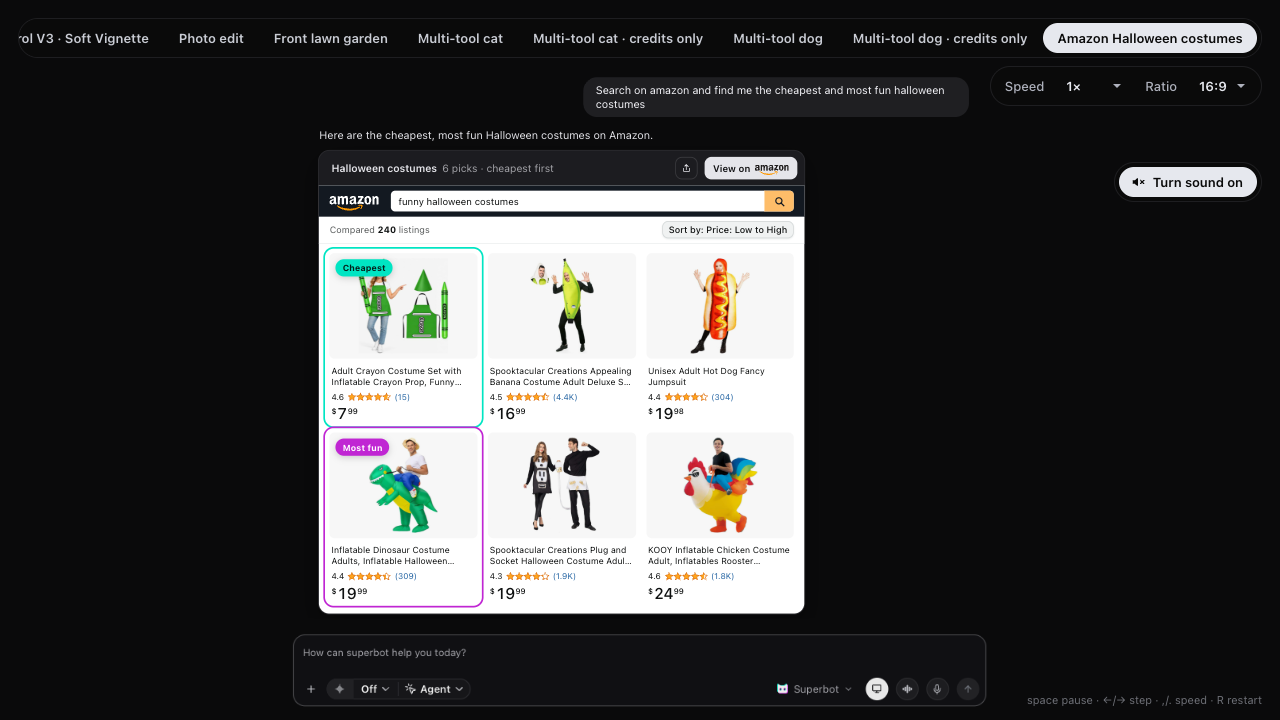
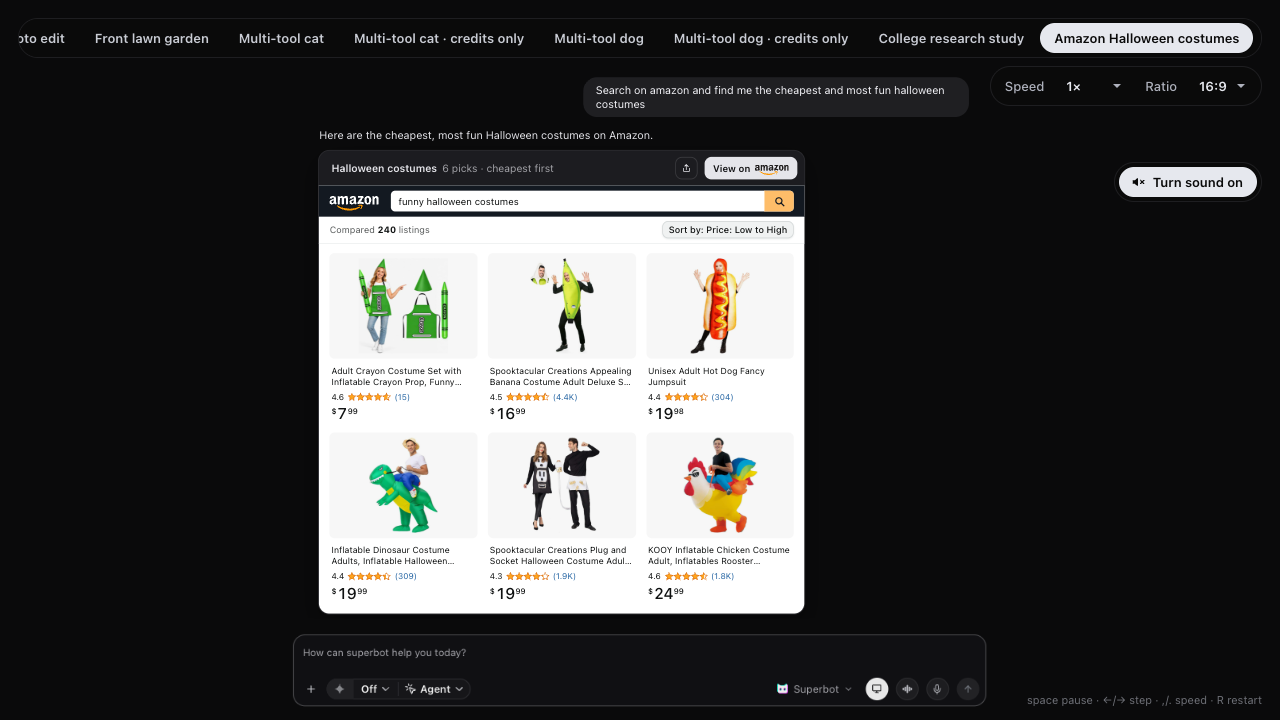
gemini muse meme spot: amazon-costumes drops the Cheapest and Most fun badges and rings; the six results land plainly, each tile a link to its Amazon listing, the v16 hits re-cued onto the landing (big hit on the first result, a smaller one on the last, the bell as the page settles); thumb and descr

diff --git a/animations/gemini-muse-meme-superbot-6fbc38f8/scenes/tabs-assets/beats/costumes.34c23b1d.js b/animations/gemini-muse-meme-superbot-6fbc38f8/scenes/tabs-assets/beats/costumes.34c23b1d.js
@@ -5,15 +5,16 @@
 //   1. the frame rises with the query typing into Amazon's search box, six skeleton tiles shimmer while the search runs,
 //      its bottom left pill counting the agent's elapsed time fast-forwarded x50 (X, GEN; the frame's x50 badge says so)
 //      and the bar counting the listings compared (LISTINGS);
-//   2. six real listings land one by one in price order, cheapest first (img/costumes.34c23b1d/CREDITS.txt: titles,
-//      prices, ratings and photos as Amazon listed them), then two verdicts pop: Cheapest on the crayon, Most fun on the
-//      ride-on T-rex;
+//   2. six real listings land one by one in price order, cheapest first, each tile a link to its listing
+//      (img/costumes.34c23b1d/CREDITS.txt: titles, prices, ratings and photos as Amazon listed them);
 //   3. the house superbot.gg end card (the 16:9 cuts' ending, as the multicat cut draws it) covers the chat.
 // Under it runs the multicat-credits cut's default soundtrack, 16 · Punchy premium groove (multicat-score.96834de7.js),
-// re-cued to this answer: the groove under the ask and the search, a hit as the results land, a bell on Cheapest, the big
-// hit and clear on Most fun, then the build into the end card. A pure function of t, except the score, which follows the
-// clock and never drives it. Its stylesheet (../costumes.34c23b1d.css) loads with the module.
-import { clamp, lerp, seg, outCubic, outQuint, outBack, streamCount } from '../../../lib.9b47fc30.js';
+// re-cued to this answer: the groove under the ask and the search, a short clear and the big hit as the first result
+// lands, a breakdown bar while they land, a smaller hit on the last and a bell as the page settles, then the build into the
+// end card. A pure function of t,
+// except the score, which follows the clock and never drives it. Its stylesheet (../costumes.34c23b1d.css) loads with the
+// module.
+import { clamp, lerp, seg, outCubic, outQuint, streamCount } from '../../../lib.9b47fc30.js';
 import { track } from '../../../loads.9e82faf1.js';
 import { LAND, landing, shimmer, settle } from './thumb-land.309eb9c5.js';
 import { loadSheet as loadFrameSheet } from './bakery.005f5570.js?v=3';
@@ -24,7 +25,7 @@ import { shareBtn } from './share.29a362ea.js';
 import { music } from '../../../music.47e5d94a.js?v=2';
 import { makePlayer } from './multicat-player.96834de7.js?v=3';
 
-const CSS = new URL('../costumes.34c23b1d.css?v=1', import.meta.url).href;
+const CSS = new URL('../costumes.34c23b1d.css?v=2', import.meta.url).href;
 export const ID = 'amazon-costumes';
 const asset = (p) => new URL('../../../' + p, import.meta.url).href;
 const pic = (f) => asset(`img/costumes.34c23b1d/${f}`);
@@ -44,7 +45,6 @@ const LISTINGS = 240;    // unique listings the five searches returned (CREDITS.
 // the query types into the search box this long after the card comes in, at this rate, done as the search starts (SEEN)
 const Q_AT = 0.08, Q_CPS = 70;
 const STAGGER = 0.12;    // the tiles land one after another, cheapest first
-const BADGE_IN = 0.42;   // a verdict's pop
 // the landed page, from its last tile's settle to the end card covering the chat: the score's three bars run from the
 // send to the cover (multicat-score.96834de7.js bed, its grid locked to `play`, here the cover), so this puts the cover
 // 6.02 s after the send and the first tile's landing on bar 2's downbeat
@@ -59,32 +59,31 @@ const popBack = (p) => { const c1 = 1.4, c3 = c1 + 1; return 1 + c3 * Math.pow(p
 const END_FACE = '<svg class="amc-end-face" viewBox="0 0 100 100" aria-hidden="true" focusable="false"><defs><mask id="amcEndFace" maskUnits="userSpaceOnUse" x="-30" y="-30" width="160" height="160"><g fill="#fff"><rect x="14" y="32" width="72" height="54" rx="15"/><path d="M14 46V28Q14 20 21 21Q28 24 36 32Z"/><path d="M86 46V28Q86 20 79 21Q72 24 64 32Z"/></g><g fill="#000"><ellipse cx="35" cy="58" rx="8" ry="11"/><ellipse cx="65" cy="58" rx="8" ry="11"/></g></mask></defs><rect x="-30" y="-30" width="160" height="160" fill="#00e5c3" mask="url(#amcEndFace)" transform="translate(-1.2 -1.2)"/><rect x="-30" y="-30" width="160" height="160" fill="#c026d3" mask="url(#amcEndFace)" transform="translate(1.2 1.2)"/><rect x="-30" y="-30" width="160" height="160" fill="#fff" mask="url(#amcEndFace)"/></svg>';
 
 // the six picks in the order they land, cheapest first: Amazon's own title, price, star rating and rating count, read
-// 2026-10-17 (CREDITS.txt). `badge`: superbot's verdict on the tile
+// 2026-10-17 (CREDITS.txt); each tile links to its listing by ASIN
 const ITEMS = [
-  { asin: 'B0H93H74JX', file: 'crayon.jpg', w: 451, h: 480, price: '$7.99', rating: 4.6, count: '15', badge: 'cheap',
+  { asin: 'B0H93H74JX', file: 'crayon.jpg', w: 451, h: 480, price: '$7.99', rating: 4.6, count: '15',
     title: 'Adult Crayon Costume Set with Inflatable Crayon Prop, Funny Halloween Costume with Apron and Cone Hat' },
   { asin: 'B0GWM4NNYP', file: 'banana.jpg', w: 317, h: 480, price: '$16.99', rating: 4.5, count: '4.4K',
     title: 'Spooktacular Creations Appealing Banana Costume Adult Deluxe Set for Halloween Dress Up Party and Roleplay Cosplay' },
   { asin: 'B07NV6GV63', file: 'hotdog.jpg', w: 294, h: 480, price: '$19.98', rating: 4.4, count: '304',
     title: 'Unisex Adult Hot Dog Fancy Jumpsuit' },
-  { asin: 'B0D7V3B7SY', file: 'trex.jpg', w: 343, h: 480, price: '$19.99', rating: 4.4, count: '309', badge: 'fun',
+  { asin: 'B0D7V3B7SY', file: 'trex.jpg', w: 343, h: 480, price: '$19.99', rating: 4.4, count: '309',
     title: 'Inflatable Dinosaur Costume Adults, Inflatable Halloween Costumes, Ride on Dino Costume, Blow Up T-rex Costume' },
   { asin: 'B07W45HH8M', file: 'plug.jpg', w: 384, h: 480, price: '$19.99', rating: 4.3, count: '1.9K',
     title: 'Spooktacular Creations Plug and Socket Halloween Costume Adult, Plug and Outlet Couples USB Costume' },
   { asin: 'B09ZQV2ZHW', file: 'chicken.jpg', w: 371, h: 480, price: '$24.99', rating: 4.6, count: '1.8K',
     title: 'KOOY Inflatable Chicken Costume Adult, Inflatables Rooster Costume Women/Men for Party' },
 ];
-const BADGES = { cheap: 'Cheapest', fun: 'Most fun' };
+const listing = (asin) => `https://www.amazon.com/dp/${asin}`;
 
 // every time in the answer, from the reply r: the card comes in at `card`, the search runs from `gen0` until `done`, the
-// tiles land from `done` STAGGER apart and have settled by `w1`, the verdicts pop at `badges`, and the end card covers the
-// chat from `cut`
+// tiles land from `done` STAGGER apart and have settled by `w1`, and the end card covers the chat from `cut`
 function plan(r) {
   const card = r + 0.22, gen0 = card + SEEN, done = gen0 + GEN / X;
   const lands = ITEMS.map((_, i) => done + i * STAGGER);
   const w1 = lands[lands.length - 1] + LAND;
   const cut = w1 + HOLD;
-  return { r, card, gen0, done, lands, w1, badges: { cheap: w1 + 0.08, fun: w1 + 0.38 }, cut, end: cut + END_DELAY + END_LEN };
+  return { r, card, gen0, done, lands, w1, cut, end: cut + END_DELAY + END_LEN };
 }
 // the answer's length from its reply: the route's `extra` stretches the loop by what this runs past the base beat
 export const LEN = plan(0).end;
@@ -129,9 +128,9 @@ export default {
     const T = k.T;
 
     // v16: rendered from this answer's cue sheet (the engine's ask, k, and this plan, T); the score's slots for the
-    // multicat chain's beats take this one's: the photo's hit as the first tile lands, the order's bell on Cheapest, the
-    // model's big hit (and the clear to the next bar) on Most fun, and the song's play press at the end card's cover,
-    // where the bed stops
+    // multicat chain's beats take this one's: the model's big hit as the first tile lands (its clear opens just before it,
+    // and the bar it lands on, bar 2, plays as the breakdown while the tiles land), the photo's smaller hit as the last tile
+    // lands, the order's bell as the page settles, and the song's play press at the end card's cover, where the bed stops
     const v16 = makePlayer({
       typing: [{ text: k.askBy[ID], s: k.s, end: k.typeEnd }],
       sends: [k.send],
@@ -139,7 +138,7 @@ export default {
       resolved: [],
       cards: [T.card],
       gens: [[T.gen0, T.done]],
-      image: T.done, model: T.badges.fun, order: T.badges.cheap, play: T.cut,
+      image: T.lands[T.lands.length - 1], model: T.done, order: T.w1, play: T.cut,
       cover: T.cut, pop: T.cut + END_DELAY, word: T.cut + END_DELAY + 0.3, end: T.end,
     }, ID);
     addEventListener('variantchange', () => v16.stop());
@@ -147,16 +146,15 @@ export default {
     // the streamed line the reply opens with: the visible prefix, the rest held in place transparent
     const say = x.el(`<div class="qc-say"><span class="qc-vis"></span><span class="qc-hid">${x.esc(SAY)}</span></div>`);
 
-    const tiles = ITEMS.map((it) => `<div class="amc-tile"${it.badge ? ` data-badge="${it.badge}"` : ''}>
-        <div class="amc-pic"><img src="${pic(it.file)}" width="${it.w}" height="${it.h}" alt="${x.esc(it.title)}"/><i class="amc-sk"></i>${it.badge ? `<b class="amc-badge amc-b-${it.badge}">${BADGES[it.badge]}</b>` : ''}</div>
+    const tiles = ITEMS.map((it) => `<a class="amc-tile" href="${listing(it.asin)}" target="_blank" rel="noopener noreferrer">
+        <div class="amc-pic"><img src="${pic(it.file)}" width="${it.w}" height="${it.h}" alt="${x.esc(it.title)}"/><i class="amc-sk"></i></div>
         <div class="amc-info">
           <div class="amc-t">${x.esc(it.title)}</div>
           <div class="amc-r"><span>${it.rating.toFixed(1)}</span><span class="amc-stars">${rated(it.rating)}</span><span class="amc-rc">(${it.count})</span></div>
           <div class="amc-p">${priceHtml(it.price)}</div>
           <div class="amc-skl" aria-hidden="true"><i></i><i></i><i></i></div>
         </div>
-        ${it.badge ? '<i class="amc-ring" aria-hidden="true"></i>' : ''}
-      </div>`).join('');
+      </a>`).join('');
     const media = x.el(`<div class="bk amc"><div class="bk-head"><b class="bk-title">Halloween costumes<small>6 picks · cheapest first</small></b>${shareBtn('Halloween costumes on Amazon', { url: SEARCH })}<a class="bk-btn bk-publish amc-open" href="${SEARCH}" target="_blank" rel="noopener noreferrer">View on<img src="${x.brand('amazon-wordmark.svg')}" alt="Amazon"></a></div>
       <div class="bk-view amc-view">
         <div class="amc-nav"><img class="amc-logo" src="${x.brand('amazon-wordmark-white.svg')}" alt="Amazon"/><span class="amc-search"><span class="amc-q"></span><i class="amc-caret"></i><span class="amc-go">${GLASS}</span></span></div>
@@ -172,7 +170,6 @@ export default {
     const tileEls = [...media.querySelectorAll('.amc-tile')].map((n) => ({
       img: n.querySelector('.amc-pic img'), sk: n.querySelector('.amc-sk'), info: n.querySelector('.amc-info'),
       text: [...n.querySelectorAll('.amc-t, .amc-r, .amc-p')], skl: n.querySelector('.amc-skl'),
-      badge: n.querySelector('.amc-badge'), ring: n.querySelector('.amc-ring'), kind: n.dataset.badge,
     }));
     // Space and Enter press the card's controls, not the spot's clock (timeline.9b47fc30.js), as on the other beats
     media.addEventListener('keydown', (e) => { if ((e.key === ' ' || e.key === 'Enter') && e.target.closest('a, button')) e.stopPropagation(); });
@@ -230,13 +227,6 @@ export default {
           const ps = p.toFixed(3);
           for (const n of tl.text) n.style.opacity = ps;
           tl.skl.style.opacity = (1 - p).toFixed(3);
-          if (!tl.badge) return;
-          // the verdict pops in with its ring around the tile
-          const b = seg(t, T.badges[tl.kind], T.badges[tl.kind] + BADGE_IN);
-          tl.badge.style.opacity = clamp(b * 2.5).toFixed(3);
-          tl.badge.style.transform = b >= 1 ? 'none' : `scale(${lerp(0.4, 1, outBack(b)).toFixed(4)})`;
-          tl.ring.style.opacity = outCubic(b).toFixed(3);
-          tl.ring.style.transform = b >= 1 ? 'none' : `scale(${lerp(1.06, 1, outCubic(b)).toFixed(4)})`;
         });
 
         // the score follows the clock while it is the pick

diff --git a/animations/gemini-muse-meme-superbot-6fbc38f8/scenes/tabs-assets/costumes.34c23b1d.css b/animations/gemini-muse-meme-superbot-6fbc38f8/scenes/tabs-assets/costumes.34c23b1d.css
@@ -26,9 +26,11 @@
 #s-tabs .sbsite .hub .amc-n { font-weight: 700; color: #0f1111; font-variant-numeric: tabular-nums; }
 #s-tabs .sbsite .hub .amc-sort { padding: 5px 8px; border-radius: 7px; background: #f0f2f2; box-shadow: inset 0 0 0 1px #d5d9d9, 0 1px 2px rgba(213,217,217,.5); font-weight: 500; color: #0f1111; }
 
-/* the six picks, three to a row */
+/* the six picks, three to a row, each a link to its listing; the title takes Amazon's hover orange */
 #s-tabs .sbsite .hub .amc-grid { display: grid; grid-template-columns: repeat(3, minmax(0, 1fr)); gap: 12px 12px; padding: 12px 12px 14px; }
-#s-tabs .sbsite .hub .amc-tile { position: relative; min-width: 0; }
+#s-tabs .sbsite .hub a.amc-tile { position: relative; display: block; min-width: 0; border-radius: 6px; color: inherit; text-decoration: none; cursor: pointer; }
+#s-tabs .sbsite .hub a.amc-tile:hover .amc-t { color: #c7511f; }
+#s-tabs .sbsite .hub a.amc-tile:focus-visible { outline: 2px solid #007185; outline-offset: 3px; }
 /* the photo on Amazon's grey well; multiply sinks the listing's white backdrop into it, as Amazon's own grid does */
 #s-tabs .sbsite .hub .amc-pic { position: relative; height: 122px; border-radius: 6px; overflow: hidden; background: #f7f7f7; }
 #s-tabs .sbsite .hub .amc-pic img { position: absolute; left: 6px; top: 6px; display: block; width: calc(100% - 12px); height: calc(100% - 12px); object-fit: contain; mix-blend-mode: multiply; opacity: 0; }
@@ -52,14 +54,6 @@
 #s-tabs .sbsite .hub .amc-skl i:nth-child(1) { width: 92%; }
 #s-tabs .sbsite .hub .amc-skl i:nth-child(2) { width: 58%; }
 #s-tabs .sbsite .hub .amc-skl i:nth-child(3) { width: 34%; height: 12px; }
-
-/* superbot's two verdicts: a pill on the photo's top left and a ring round the tile, in the mascot's cyan and magenta */
-#s-tabs .sbsite .hub .amc-badge { position: absolute; left: 7px; top: 7px; z-index: 2; padding: 5px 8px; border-radius: 999px; font: 700 10px/1 var(--ui); letter-spacing: .01em; opacity: 0; transform-origin: 0 50%; box-shadow: 0 2px 8px rgba(0,0,0,.18); }
-#s-tabs .sbsite .hub .amc-b-cheap { background: #00e5c3; color: #04201b; }
-#s-tabs .sbsite .hub .amc-b-fun { background: #c026d3; color: #fff; }
-#s-tabs .sbsite .hub .amc-ring { position: absolute; inset: -5px; border-radius: 10px; opacity: 0; pointer-events: none; }
-#s-tabs .sbsite .hub [data-badge="cheap"] .amc-ring { box-shadow: 0 0 0 2px #00e5c3; }
-#s-tabs .sbsite .hub [data-badge="fun"] .amc-ring { box-shadow: 0 0 0 2px #c026d3; }
 
 /* the search's pill, the generating pill's look (chat.css .qc-genl) with no tool tile, so the text takes its even inset */
 #s-tabs .sbsite .hub .qc-genl.amc-genl { z-index: 3; padding-left: 11px; }

diff --git a/animations/gemini-muse-meme-superbot-6fbc38f8/scenes/tabs-assets/chat.9b47fc30.js b/animations/gemini-muse-meme-superbot-6fbc38f8/scenes/tabs-assets/chat.9b47fc30.js
@@ -26,7 +26,7 @@ import computerV3 from './beats/computer.ba3976b6.js?v=8';
 import multicat, { bare as multicatBare, bareDog as multidogBare, TYPE_CPS as MULTICAT_CPS, LEN as MULTICAT_LEN, BARE_LEN as MULTICAT_BARE_LEN, DOG_BARE_LEN as MULTIDOG_BARE_LEN } from './beats/multicat.516afb1a.js?v=15';
 import multidog, { TYPE_CPS as MULTIDOG_CPS, LEN as MULTIDOG_LEN } from './beats/multidog.7b007b09.js?v=2';
 import college, { TYPE_CPS as COLLEGE_CPS, LEN as COLLEGE_LEN } from './beats/college.057e3dda.js?v=1';
-import costumes, { TYPE_CPS as COSTUMES_CPS, LEN as COSTUMES_LEN } from './beats/costumes.34c23b1d.js?v=1';
+import costumes, { TYPE_CPS as COSTUMES_CPS, LEN as COSTUMES_LEN } from './beats/costumes.34c23b1d.js?v=2';
 import halloween, { TYPE_CPS as HALLOWEEN_CPS, LEN as HALLOWEEN_LEN } from './beats/halloween.37ff9e93.js?v=1';
 import { variant } from '../../variant.9e82faf1.js?v=3';
 import { LOGO as TRADERJOES_LOGO } from './beats/traderjoes-data.4aaedb8c.js';

diff --git a/animations/gemini-muse-meme-superbot-6fbc38f8/timeline.9b47fc30.js b/animations/gemini-muse-meme-superbot-6fbc38f8/timeline.9b47fc30.js
@@ -3,10 +3,10 @@
 // a 60fps quantised clock. The one scene (scenes/tabs.js) plays once and holds its last frame: no loop. Space after
 // the end replays it from the start.
 import * as lib from './lib.9b47fc30.js';
-import tabs from './scenes/tabs.9b47fc30.js?v=31';
+import tabs from './scenes/tabs.9b47fc30.js?v=32';
 import { settled } from './loads.9e82faf1.js';
 // the same module instance the tabs scene uses (the full URL, query included, keys an instance)
-import { BEATS, typeShift } from './scenes/tabs-assets/chat.9b47fc30.js?v=38';
+import { BEATS, typeShift } from './scenes/tabs-assets/chat.9b47fc30.js?v=39';
 import { variant } from './variant.9e82faf1.js?v=3';
 
 const { seg } = lib;

diff --git a/animations/gemini-muse-meme-superbot-6fbc38f8/scenes/tabs.9b47fc30.js b/animations/gemini-muse-meme-superbot-6fbc38f8/scenes/tabs.9b47fc30.js
@@ -5,7 +5,7 @@
 // (tabs-assets/chat.js). render(lt) is a pure function of local time. The scene keeps the id "tabs" so the hub's
 // generated stylesheets (scoped under #s-tabs) apply unchanged.
 import { hubMarkup } from './tabs-assets/hub-markup.9b47fc30.js';
-import { mountChat, renderChat, CHAT_T0, chatEnd, sendAt } from './tabs-assets/chat.9b47fc30.js?v=38';
+import { mountChat, renderChat, CHAT_T0, chatEnd, sendAt } from './tabs-assets/chat.9b47fc30.js?v=39';
 import { lerp, seg, outCubic, inOutCubic } from '../lib.9b47fc30.js';
 import { variant } from '../variant.9e82faf1.js?v=3';
 

diff --git a/animations/gemini-muse-meme-superbot-6fbc38f8/index.html b/animations/gemini-muse-meme-superbot-6fbc38f8/index.html
@@ -72,7 +72,7 @@
   };
 })();
 </script>
-<script type="module" src="timeline.9b47fc30.js?v=32" onload="bootLoaded()" onerror="bootFailed()"></script>
+<script type="module" src="timeline.9b47fc30.js?v=33" onload="bootLoaded()" onerror="bootFailed()"></script>
 <script type="module" src="variant-select.9e82faf1.js?v=18" onload="bootLoaded()" onerror="bootFailed()"></script>
 <!-- v14 on the Music pill: its score and its music pill; outside the boot count, so a failed score never holds the spot -->
 <script type="module" src="music.ff209337.js?v=2"></script>

diff --git a/README.md b/README.md
@@ -61,7 +61,7 @@ zoom the full-size image or watch the animation play live. Static — no build, 
   (`animations/gemini-muse-meme-superbot-6fbc38f8/?variant=amazon-costumes`): "Search on amazon and find
   me the cheapest and most fun halloween costumes" gets a rebuilt Amazon results page; the search runs
   x50 under skeleton tiles while 240 listings are compared, six real listings land cheapest first ($7.99
-  crayon to $24.99 inflatable chicken, as listed 2026-10-17), Cheapest and Most fun pop, then the
+  crayon to $24.99 inflatable chicken, as listed 2026-10-17), each a link to its listing, then the
   superbot.gg end card (about 12.6s, with sound: the 16 · Punchy premium groove score re-cued to it).
 - **halloween shopping, no model on show**: the credits-only cut's look for two shopping asks
   (`animations/gemini-muse-meme-superbot-6fbc38f8/?variant=halloween-shopping`): "Search on amazon and buy
